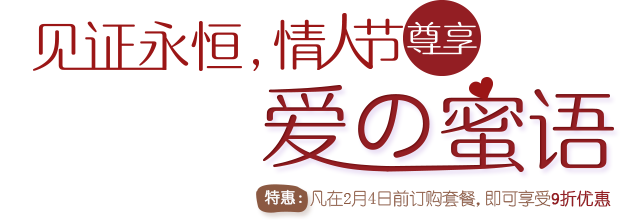
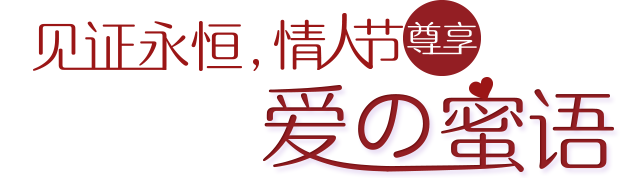
情人节音蛋糕活动

diff --git a/css/valentines.css b/css/valentines.css
@@ -1,7 +1,6 @@
 .content{ background:url(../img/valentines/bg.jpg); }
 .content .top{ padding-top: 14px; }
-.content .top .single{ position: relative; margin-top: -20%; }
-.content .top .single-fz{ margin-top: -14%; }
+.content .top .single{ position: relative; margin-top: -14%; }
 .content .single a{ position: absolute; display: block; border-radius: 50%; }
 .content .single .a_flower{ top: 6%; left: 0; width: 48%; height: 52%;}
 .content .single .a_wine{ top: 28%; right: 3%; width: 34%; height: 42%; }

diff --git a/valentines-fz.html b/valentines-fz.html
@@ -17,8 +17,8 @@
 		<div class="content">
 			
 			<div class="top">
-				<img src="img/valentines/title_fz.png"/>
-				<div class="single single-fz">
+				<img src="img/valentines/title.png"/>
+				<div class="single">
 					<img src="img/valentines/single_bg_fz.png"/>
 					<a href="javascript:;" class="a_flower"></a>
 					<a href="javascript:;" class="a_wine"></a>
